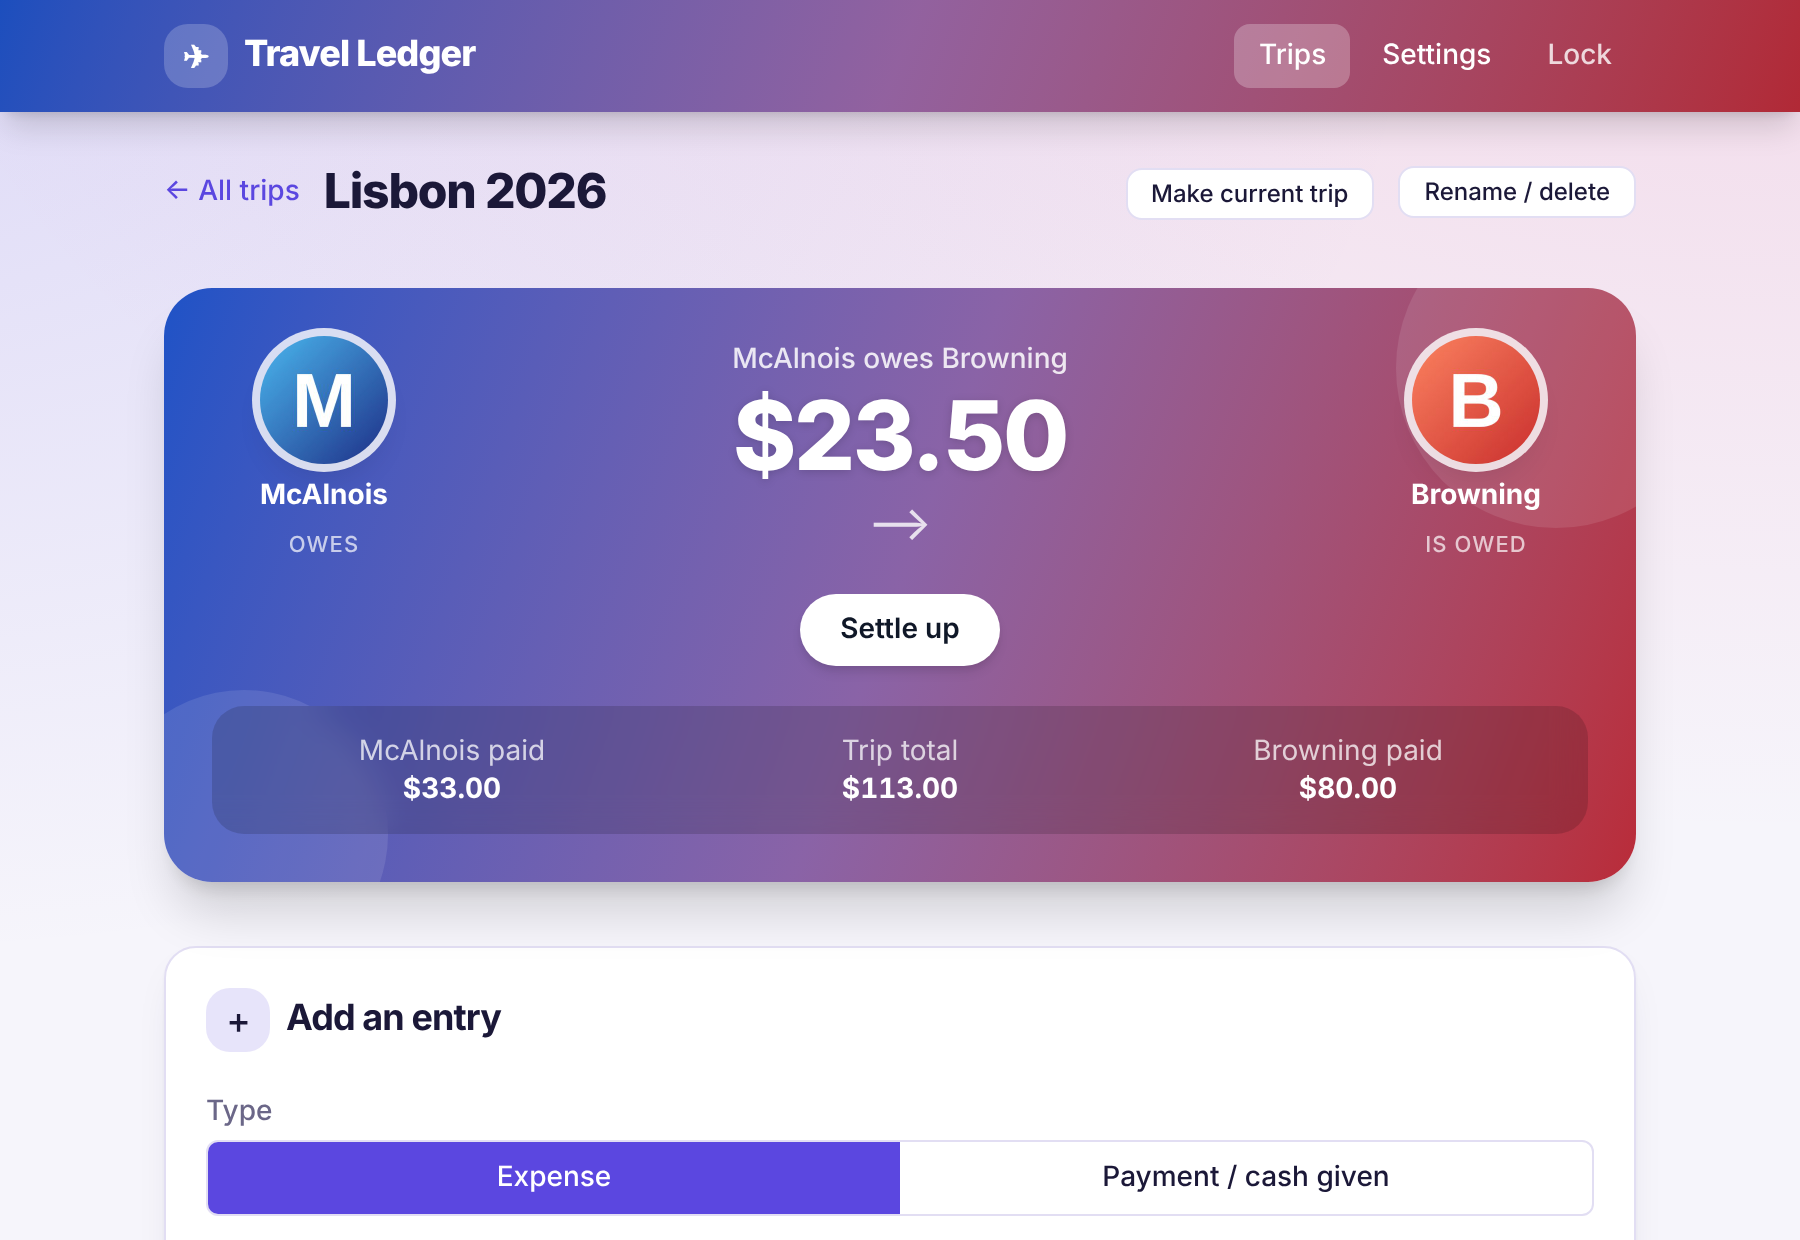
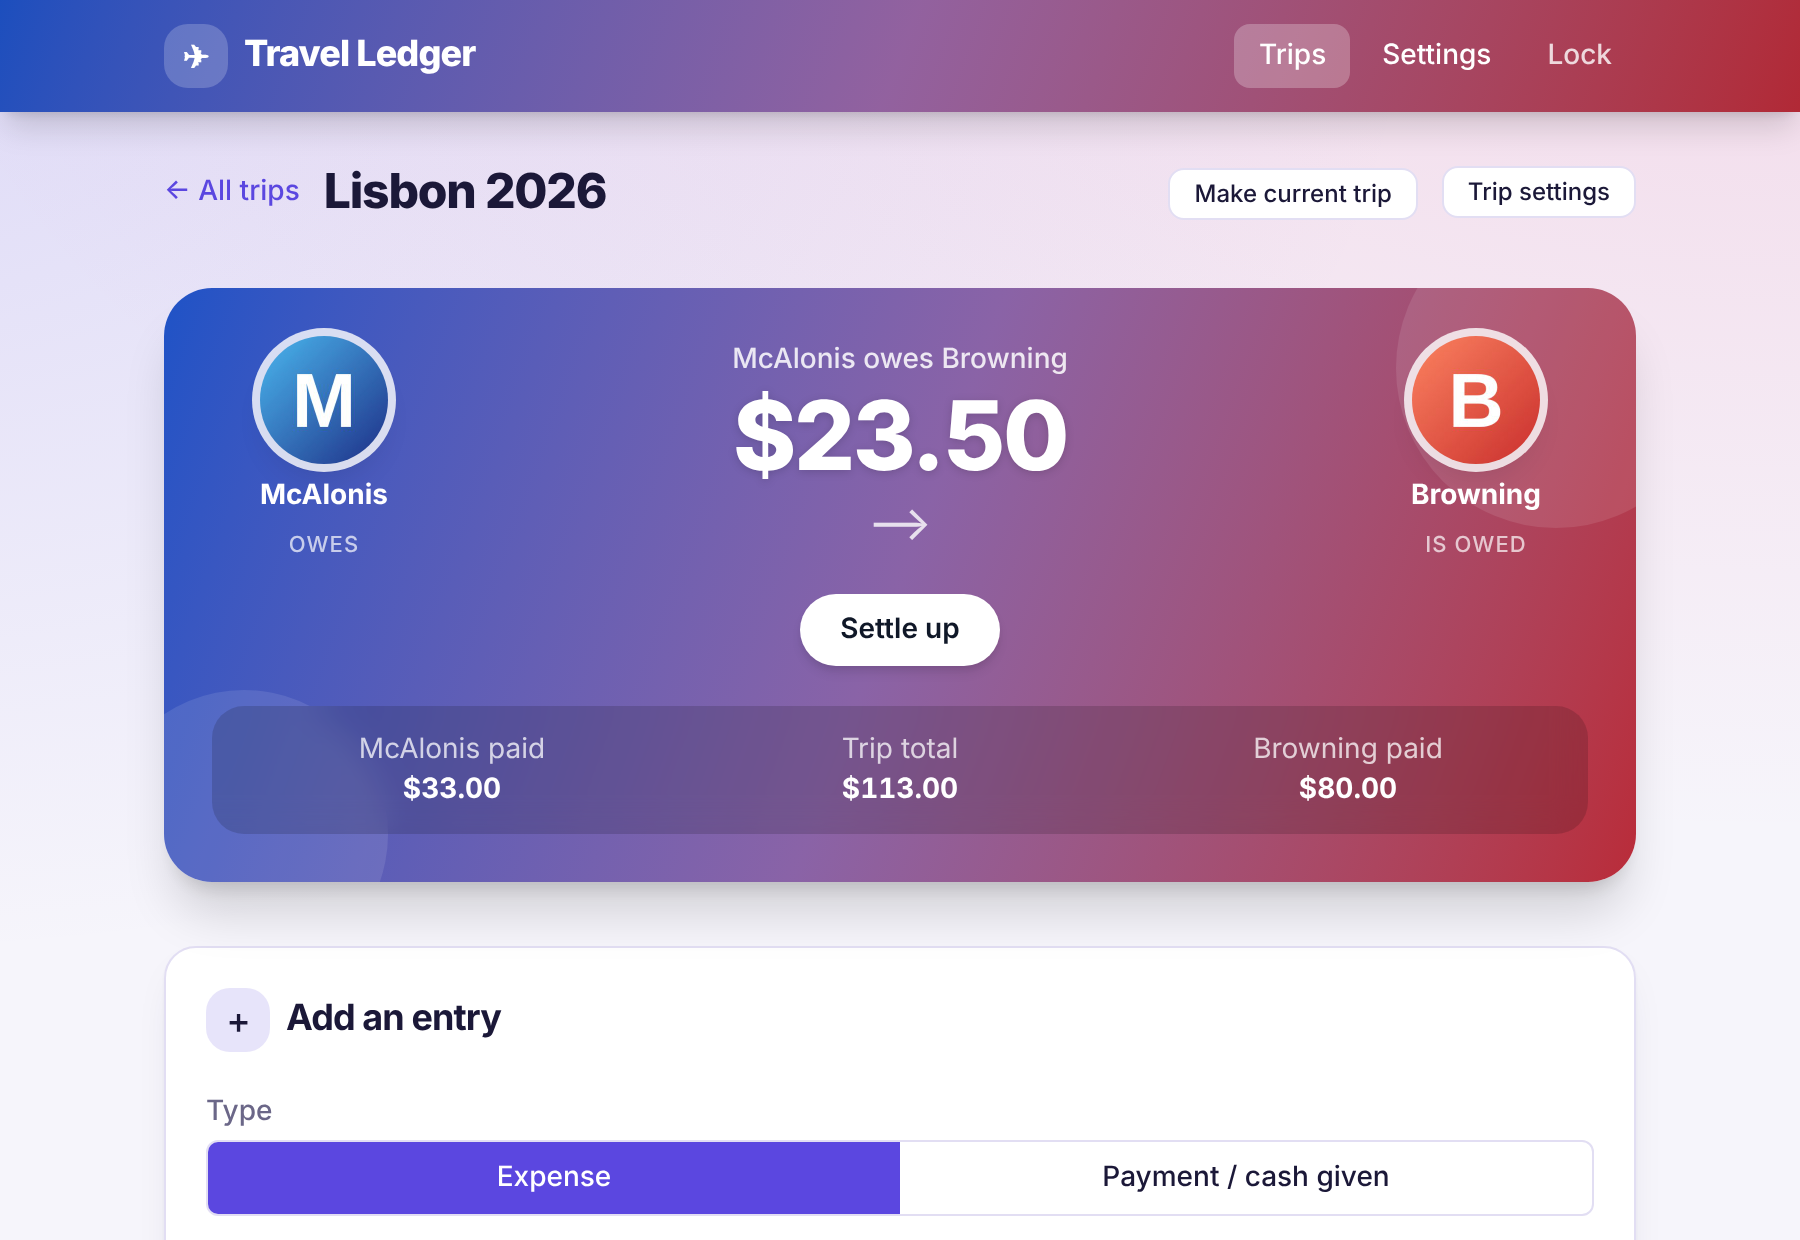
Correct the second person's name to McAlonis
Fix the spelling in the README, a code comment and tests, and
regenerate the screenshots with the correct name.

Claude-Session: https://claude.ai/code/session_012zpDizyNt3LK1MrmEuYdui

diff --git a/src/lib/__tests__/ledger.test.ts b/src/lib/__tests__/ledger.test.ts
@@ -206,7 +206,7 @@ describe("trips", () => {
       entry({ tripId: TRIP, amountMinor: 10000 }),
       entry({ tripId: OTHER, amountMinor: 4000, paidBy: "p2" }),
     ];
-    const csv = toCsv(entries, "USD", { p1: "Browning", p2: "McAlnois" }, [
+    const csv = toCsv(entries, "USD", { p1: "Browning", p2: "McAlonis" }, [
       { id: TRIP, name: "Japan", slug: "japan", createdAt: "" },
       { id: OTHER, name: "Lisbon", slug: "lisbon", createdAt: "" },
     ]);

diff --git a/src/app/globals.css b/src/app/globals.css
@@ -11,7 +11,7 @@
   --accent: #5b47e0;
   --accent-2: #db2777;
   --accent-3: #f97316;
-  /* Person colors: person 1 (Browning) red, person 2 (McAlnois) blue */
+  /* Person colors: person 1 (Browning) red, person 2 (McAlonis) blue */
   --p1: #dc3545;
   --p2: #2563eb;
   --good: #15803d;

diff --git a/README.md b/README.md
@@ -9,7 +9,7 @@ and see who owes whom.
 
 | Who owes whom (sides swap) | | Payment in History |
 |---|---|---|
-| ![McAlnois owes](docs/screenshots/hero_mcalnois_owes.png) | ![Browning owes](docs/screenshots/hero_browning_owes.png) | ![Payment](docs/screenshots/history_payment.png) |
+| ![McAlonis owes](docs/screenshots/hero_mcalonis_owes.png) | ![Browning owes](docs/screenshots/hero_browning_owes.png) | ![Payment](docs/screenshots/history_payment.png) |
 
 Also: [settings](docs/screenshots/5_settings.png) · [people](docs/screenshots/settings_people.png) · [phone](docs/screenshots/7_mobile.png) · [dark mode](docs/screenshots/8_dark.png)
 
